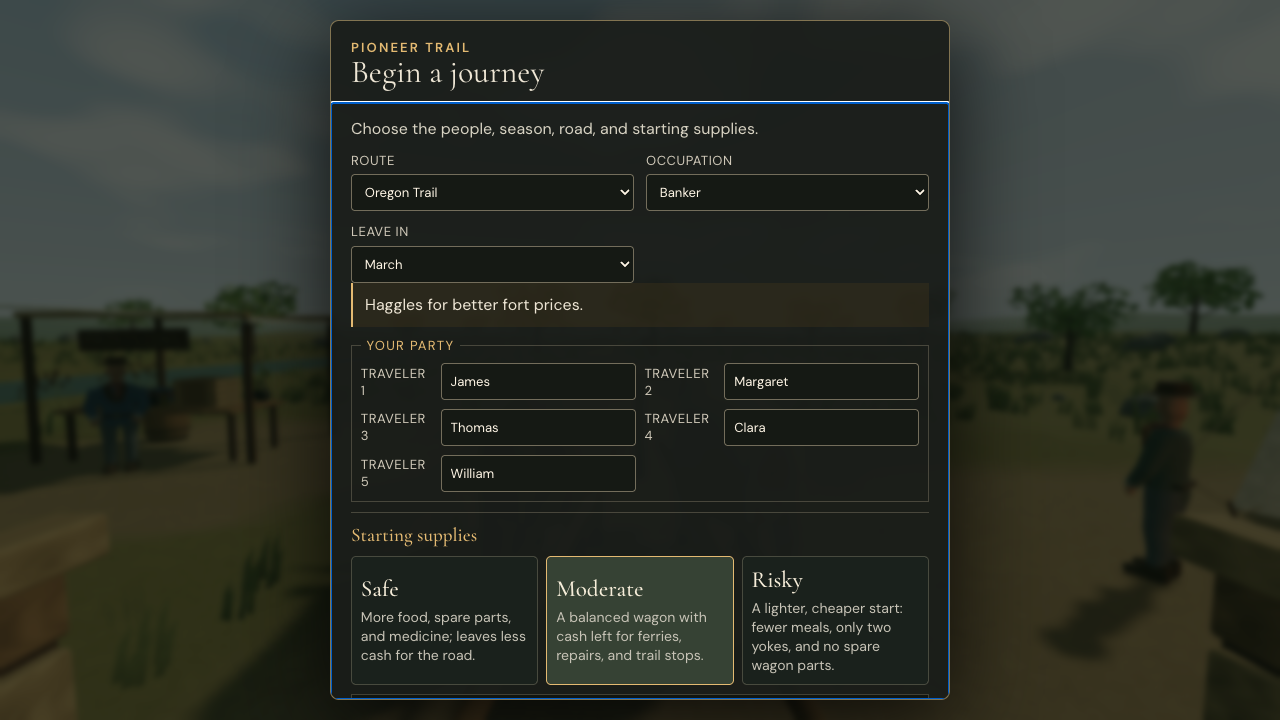
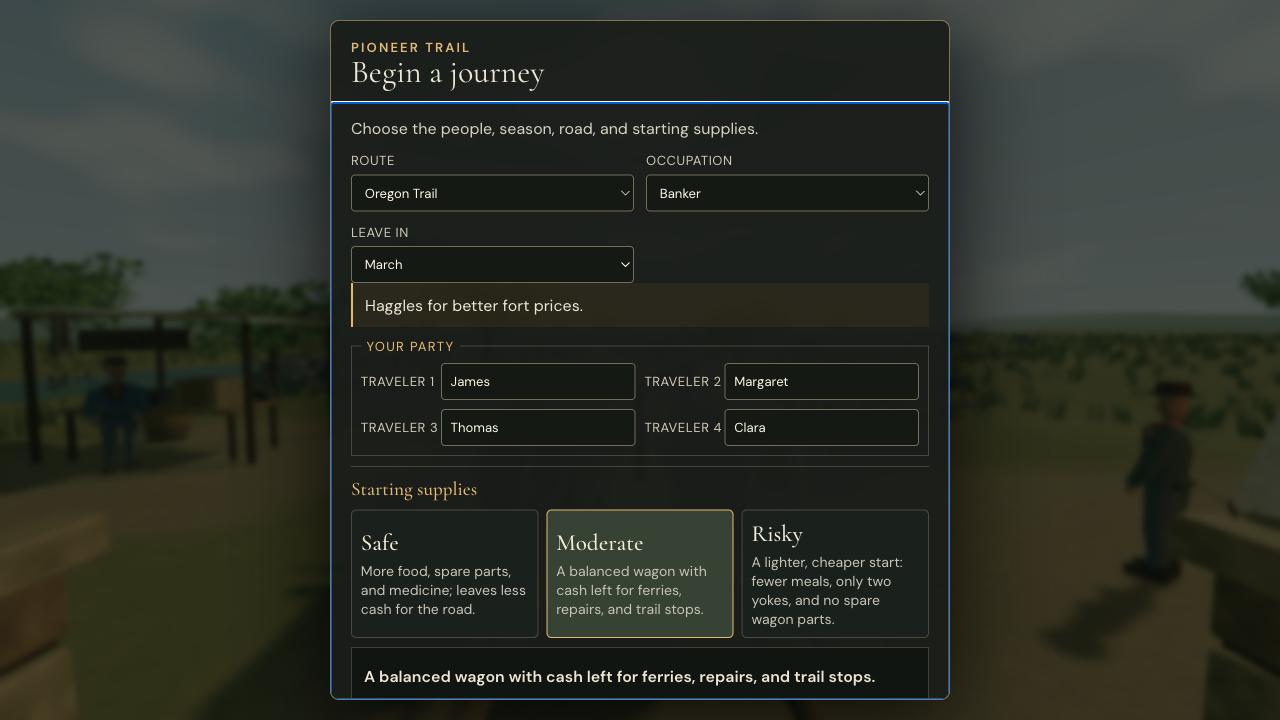
docs: capture onboarding, night and crossing evidence

diff --git a/WORKLOG.md b/WORKLOG.md
@@ -1,0 +1,9 @@
+# Worklog
+
+### 2026-09-11 09:42 EDT - Four-traveler onboarding and visual evidence
+
+- Outcome: Campaign setup accepts four or five travelers; setup defaults to four; rebuilt WASM and updated the engine hash. Added headed macOS Playwright launch guards, refreshed onboarding/night/crossing evidence, and added a headed evidence capture script.
+- Decisions: Reverted the unverified startup-frame change. Kept the removed seed control out of the UI; evidence tests can pass a deterministic seed by URL. Removed the invalid pre-existing night-before image because main lacks the later force-night evidence hook.
+- Checks: Headed test:dev passed 8/8. Headed test:e2e completed 77/92; its preview build was stale for the first run, and the source-specific river tests remain incompatible with the committed seat-side crossing flow. cargo test, test:engine, build, lint, test:types, test:assets, and npm test passed.
+- Remaining: A matching main night-before capture needs an explicit main-compatible fixture; headed e2e source test updates remain separate follow-up work.
+- Next: Resolve the remaining production browser-suite test expectations before merging.
